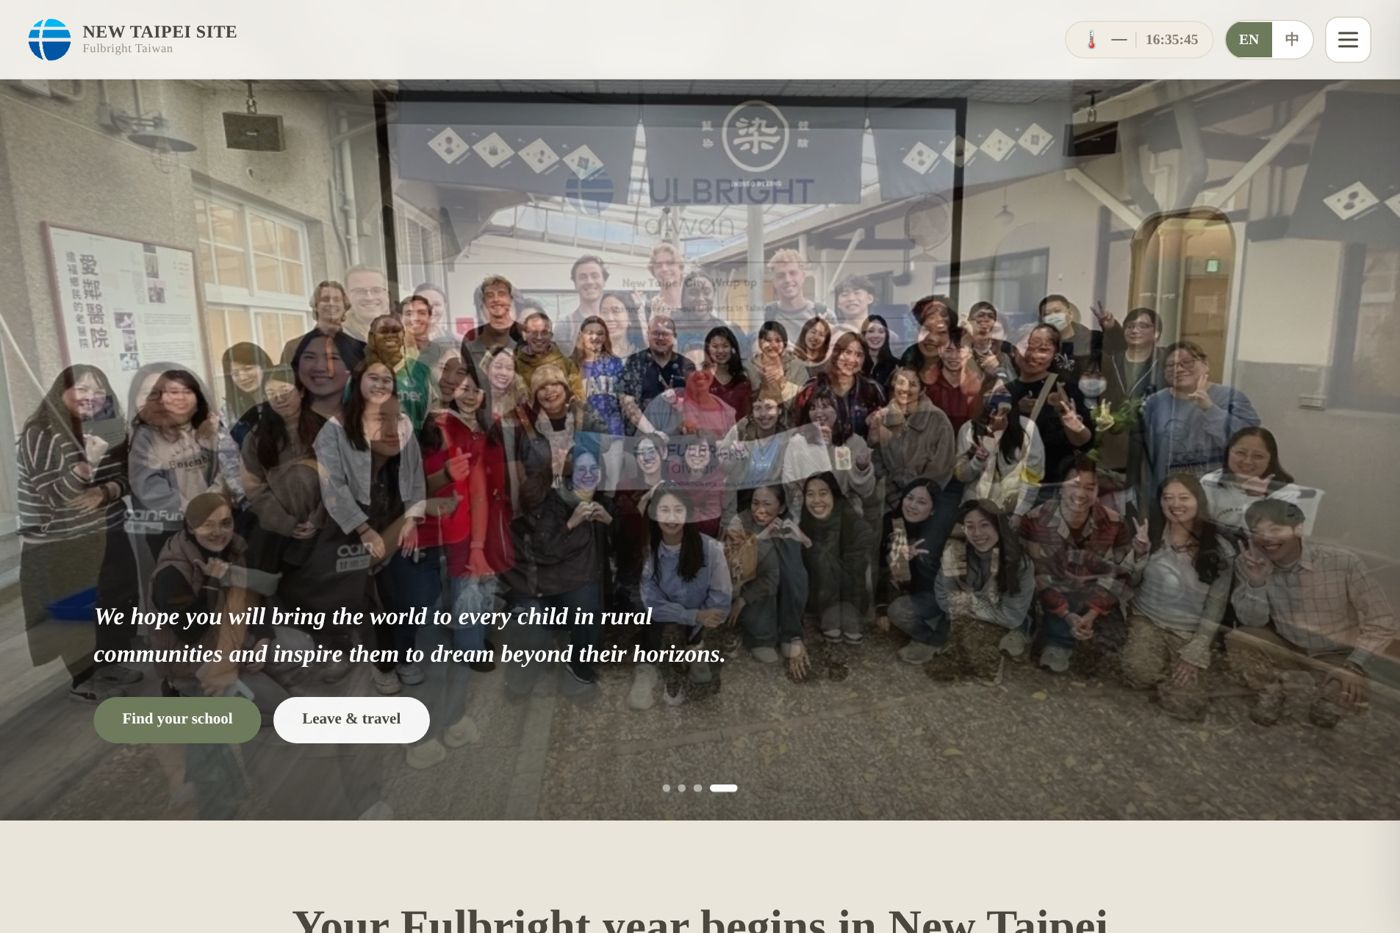
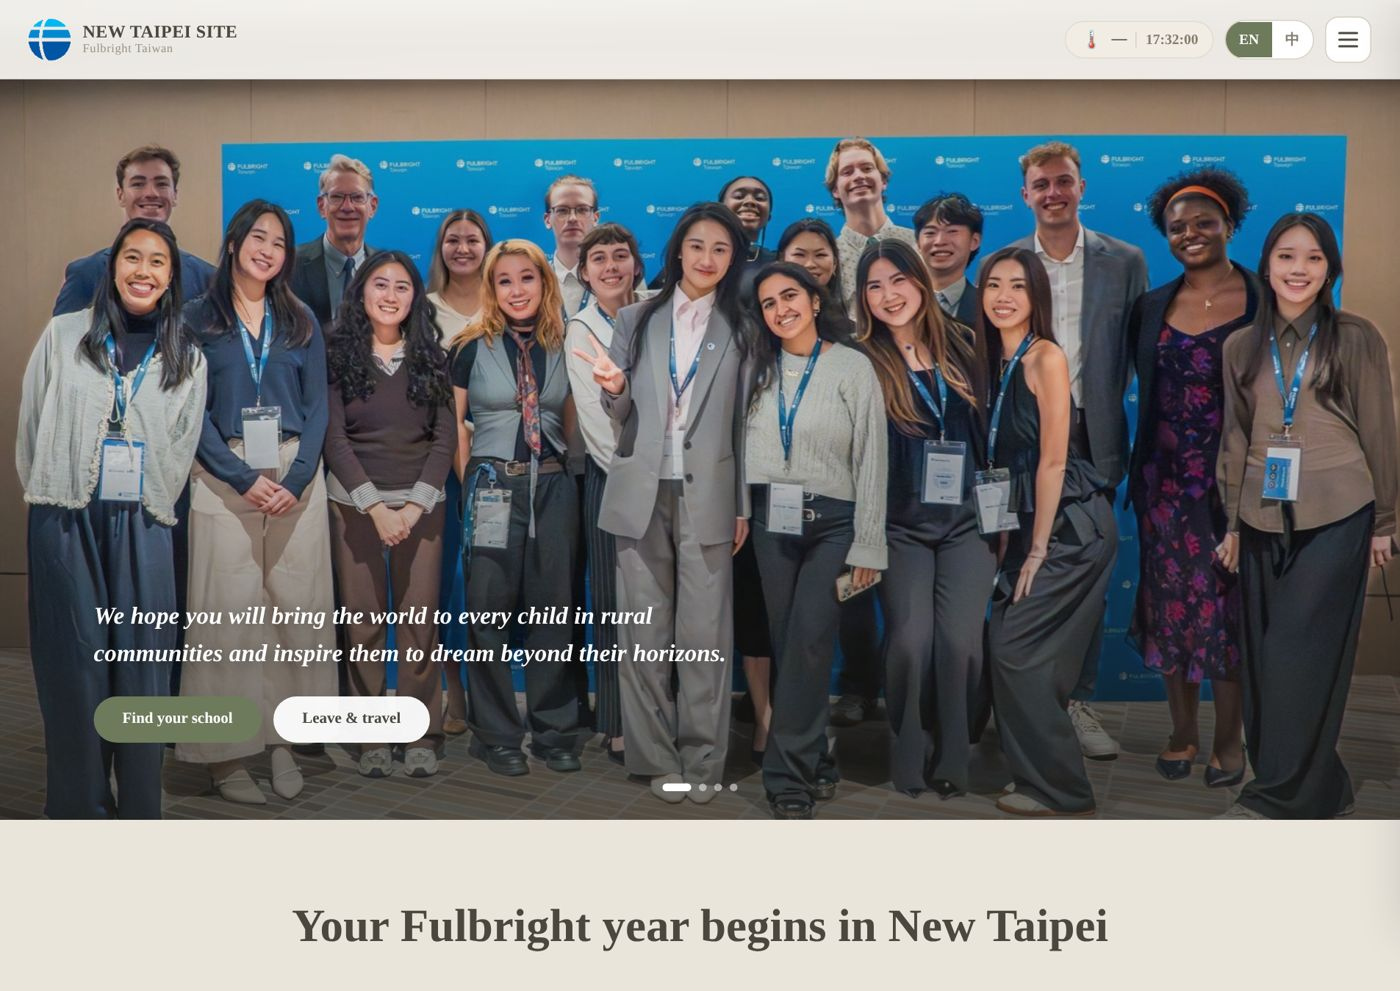
Add files via upload

diff --git a/index.html b/index.html
@@ -249,7 +249,7 @@ footer{background:var(--bg)}
         <p>Edited the Reel and wrote its caption for Fulbright Taiwan's Teach in Taiwan account. It reached 2,953 views, and 65.8% of viewers came from outside the account's followers.</p>
         <button class="btn" type="button" data-open="m-video">See Results</button>
       </div>
-      <div class="media tall"><img src="assets/reel-cover.jpg" alt="Students in a meeting room at NVIDIA, frame from the Reel" width="373" height="666"></div>
+      <div class="media"><img src="assets/nvidia-group.jpg" alt="Taiwan Global Pathfinders group photo with a Fulbright Taiwan banner at NVIDIA headquarters, frame from the Reel" width="1252" height="710"></div>
     </div>
   </section>
 
